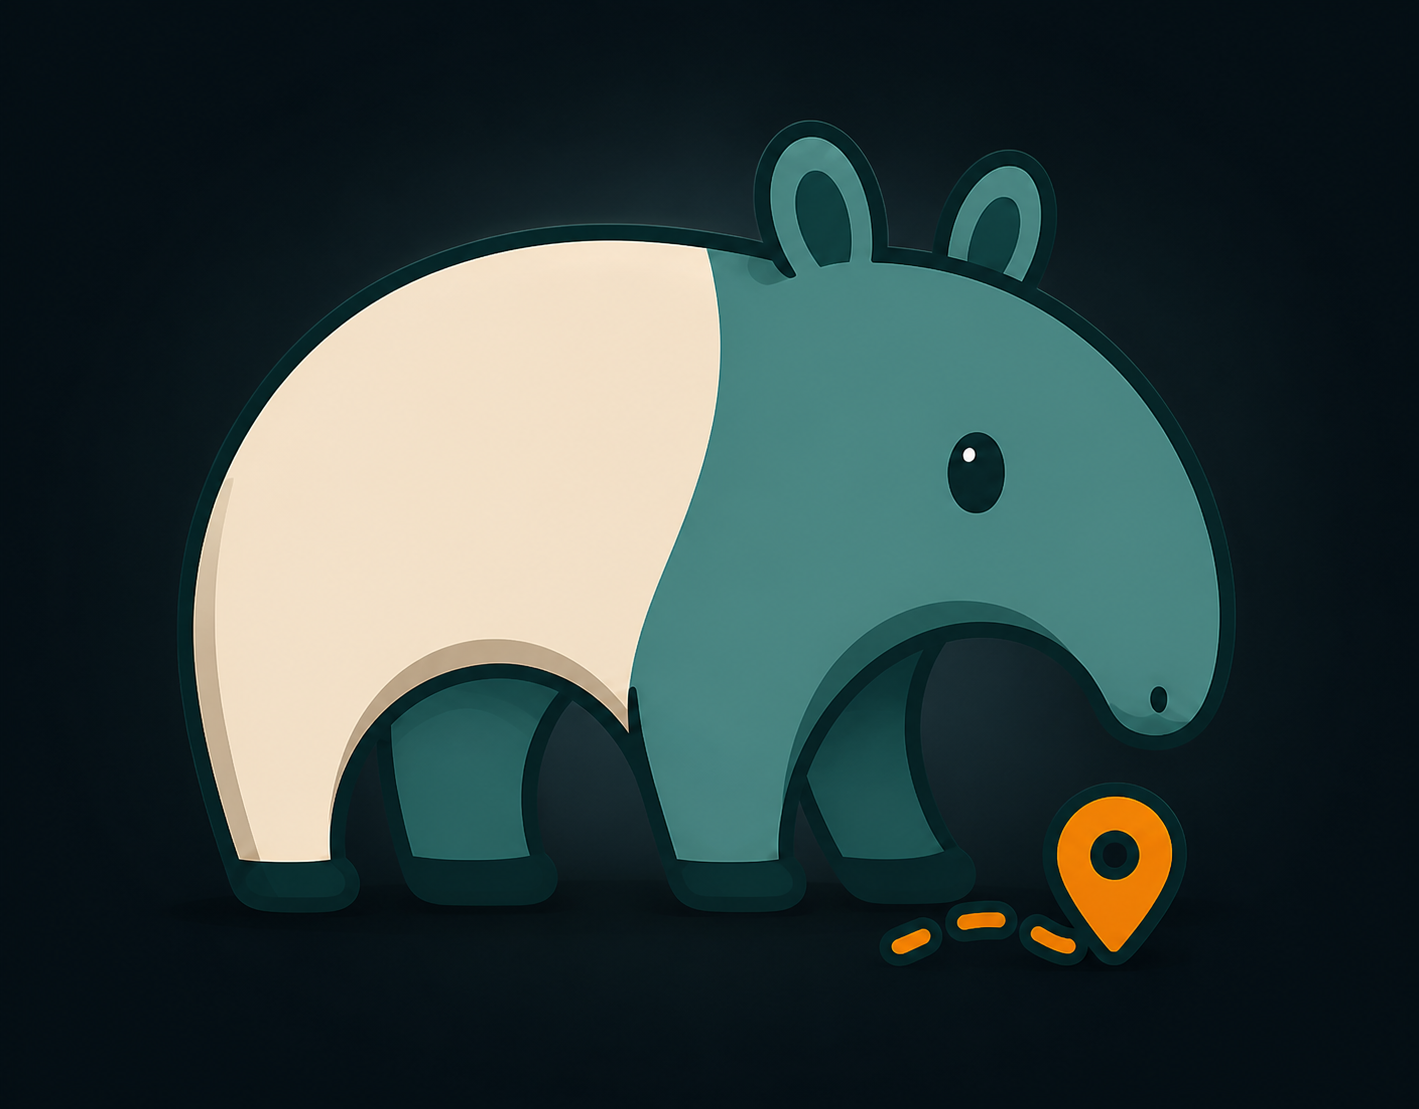
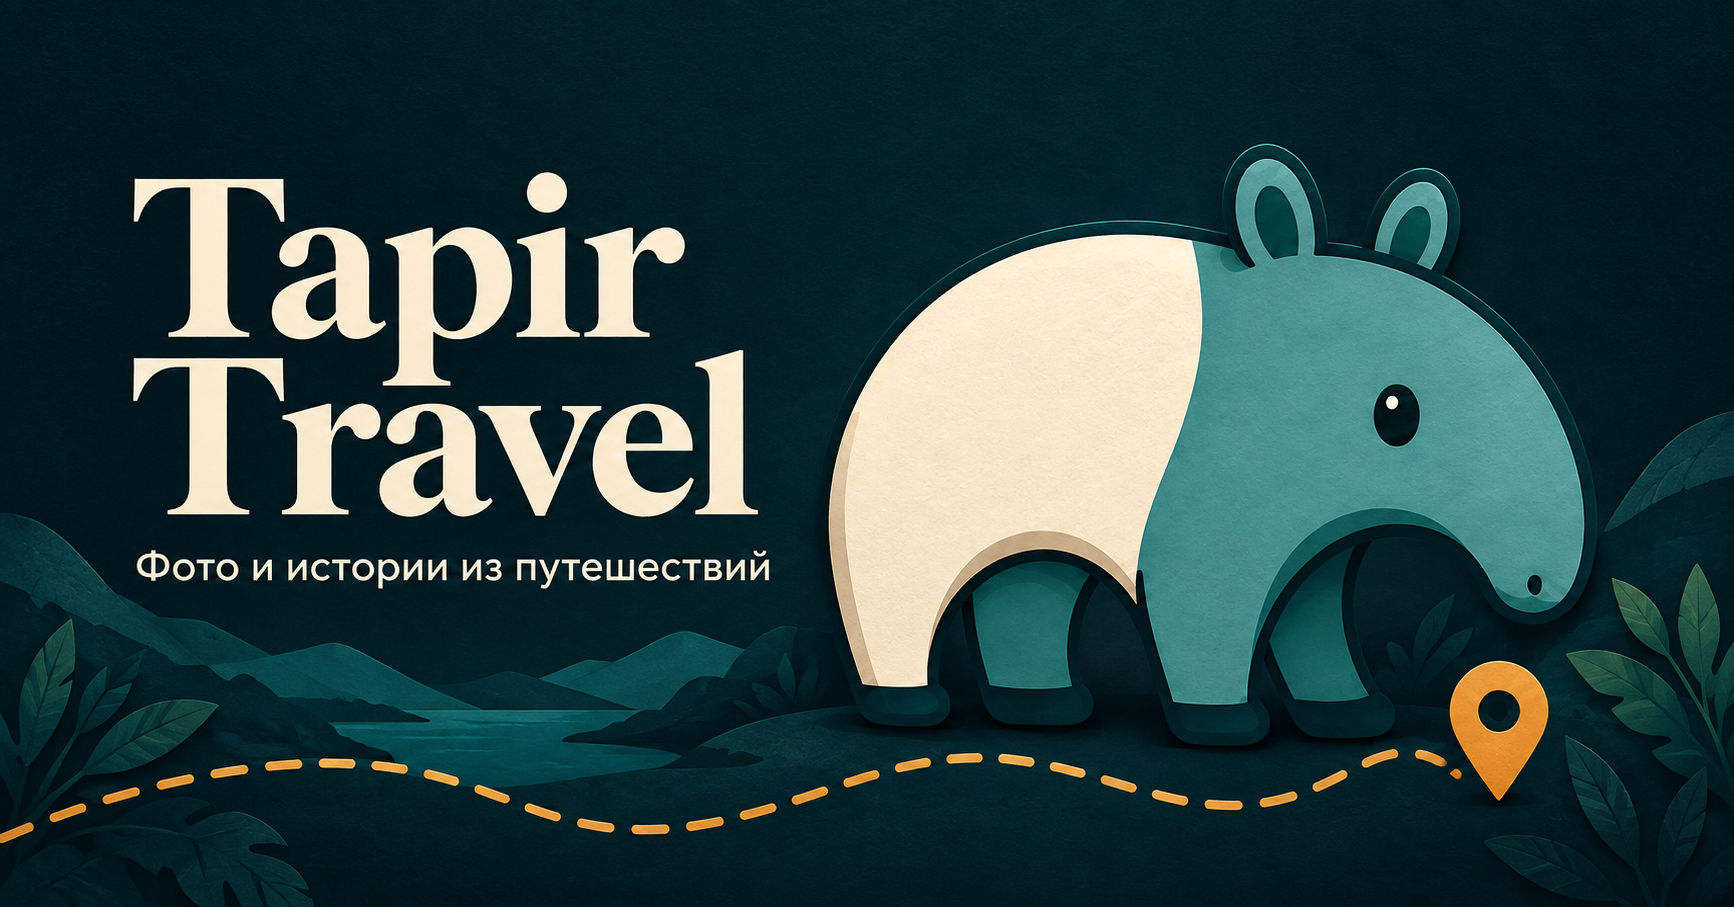
Fix Travel social preview domains and use wide image

diff --git a/frontend/src/app/layout.tsx b/frontend/src/app/layout.tsx
@@ -35,7 +35,9 @@ const storyBody = Lora({
 });
 
 export const metadata: Metadata = {
-  metadataBase: new URL("https://travel-coral-five-50.vercel.app"),
+  metadataBase: new URL(
+    process.env.NEXT_PUBLIC_SITE_URL || "https://www.tapir.su",
+  ),
   title: "Tapir Travel",
   description: "Личный журнал путешествий, фото и историй.",
   icons: {
@@ -47,25 +49,11 @@ export const metadata: Metadata = {
     url: "/",
     siteName: "Tapir Travel",
     type: "website",
-    images: [
-      {
-        url: "/opengraph-image.png",
-        width: 1419,
-        height: 1109,
-        alt: "Tapir Travel mascot",
-      },
-    ],
   },
   twitter: {
     card: "summary_large_image",
     title: "Tapir Travel",
     description: "Личный журнал путешествий, фото и историй.",
-    images: [
-      {
-        url: "/twitter-image.png",
-        alt: "Tapir Travel mascot",
-      },
-    ],
   },
 };
 

diff --git a/frontend/README.md b/frontend/README.md
@@ -26,7 +26,7 @@ Tests 1–4 run without auth. Test 5 (like persists after refresh) requires env 
 
 You can start editing the page by modifying `app/page.tsx`. The page auto-updates as you edit the file.
 
-This project uses [`next/font`](https://nextjs.org/docs/app/building-your-application/optimizing/fonts) to automatically optimize and load [Geist](https://vercel.com/font), a new font family for Vercel.
+This project uses [`next/font`](https://nextjs.org/docs/app/building-your-application/optimizing/fonts) to load its fonts.
 
 ## Learn More
 
@@ -35,10 +35,21 @@ To learn more about Next.js, take a look at the following resources:
 - [Next.js Documentation](https://nextjs.org/docs) - learn about Next.js features and API.
 - [Learn Next.js](https://nextjs.org/learn) - an interactive Next.js tutorial.
 
-You can check out [the Next.js GitHub repository](https://github.com/vercel/next.js) - your feedback and contributions are welcome!
+## Deploy to VPS
 
-## Deploy on Vercel
+GitHub Actions builds the standalone frontend and deploys it to the VPS:
 
-The easiest way to deploy your Next.js app is to use the [Vercel Platform](https://vercel.com/new?utm_medium=default-template&filter=next.js&utm_source=create-next-app&utm_campaign=create-next-app-readme) from the creators of Next.js.
+- Production: `.github/workflows/deploy-frontend-production.yml`, site `https://www.tapir.su`.
+- Staging: `.github/workflows/deploy-frontend-staging.yml`, site `https://staging.tapir.su`.
 
-Check out our [Next.js deployment documentation](https://nextjs.org/docs/app/building-your-application/deploying) for more details.
+Both workflows set `NEXT_PUBLIC_SITE_URL` at build time. This is the base URL
+for Open Graph and Twitter metadata, including the image routes in `src/app`.
+Local builds default to `https://www.tapir.su`; set `NEXT_PUBLIC_SITE_URL` to
+build for another origin. Changing the variable requires rebuilding the frontend.
+
+The preview images are `src/app/opengraph-image.png` and
+`src/app/twitter-image.png` (1734 × 907 PNG). Next.js derives image URLs,
+types and dimensions from these files; accompanying `.alt.txt` files supply
+the descriptions. Keep image metadata in these files rather than duplicating
+it in `layout.tsx`. Verify the generated HTML and the image URLs
+after deployment, then check a real link preview in Telegram.
